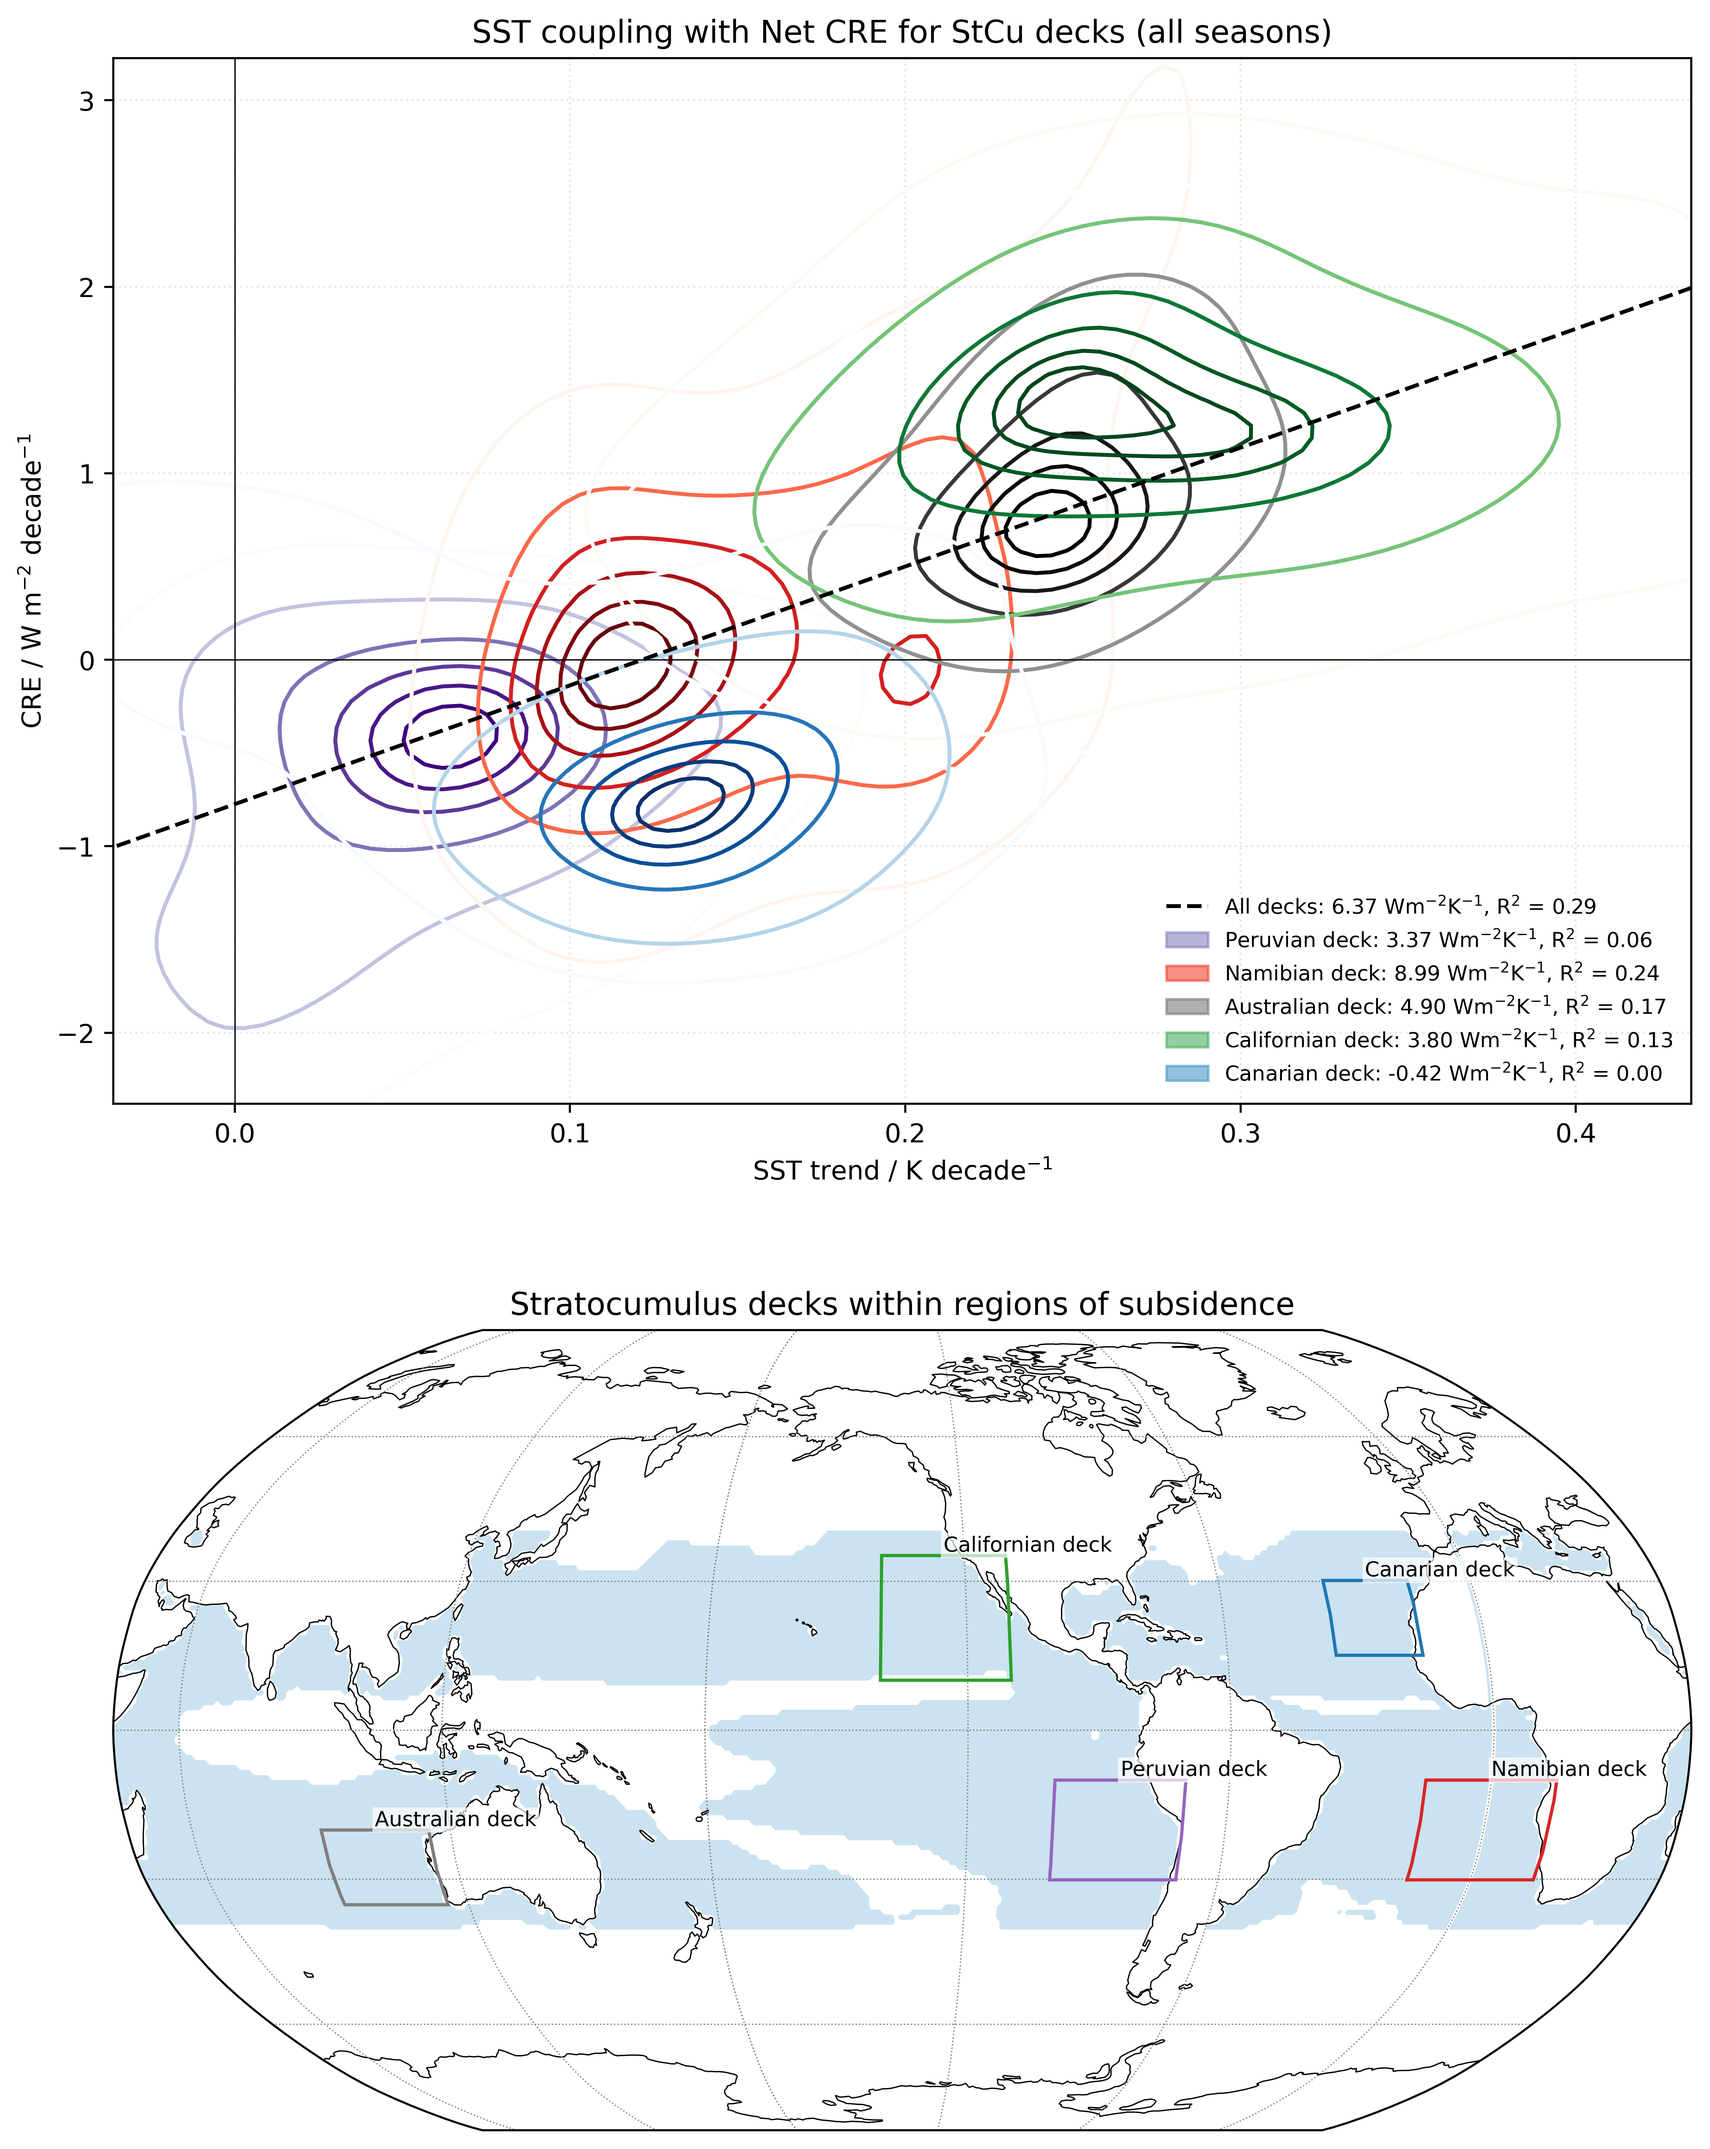
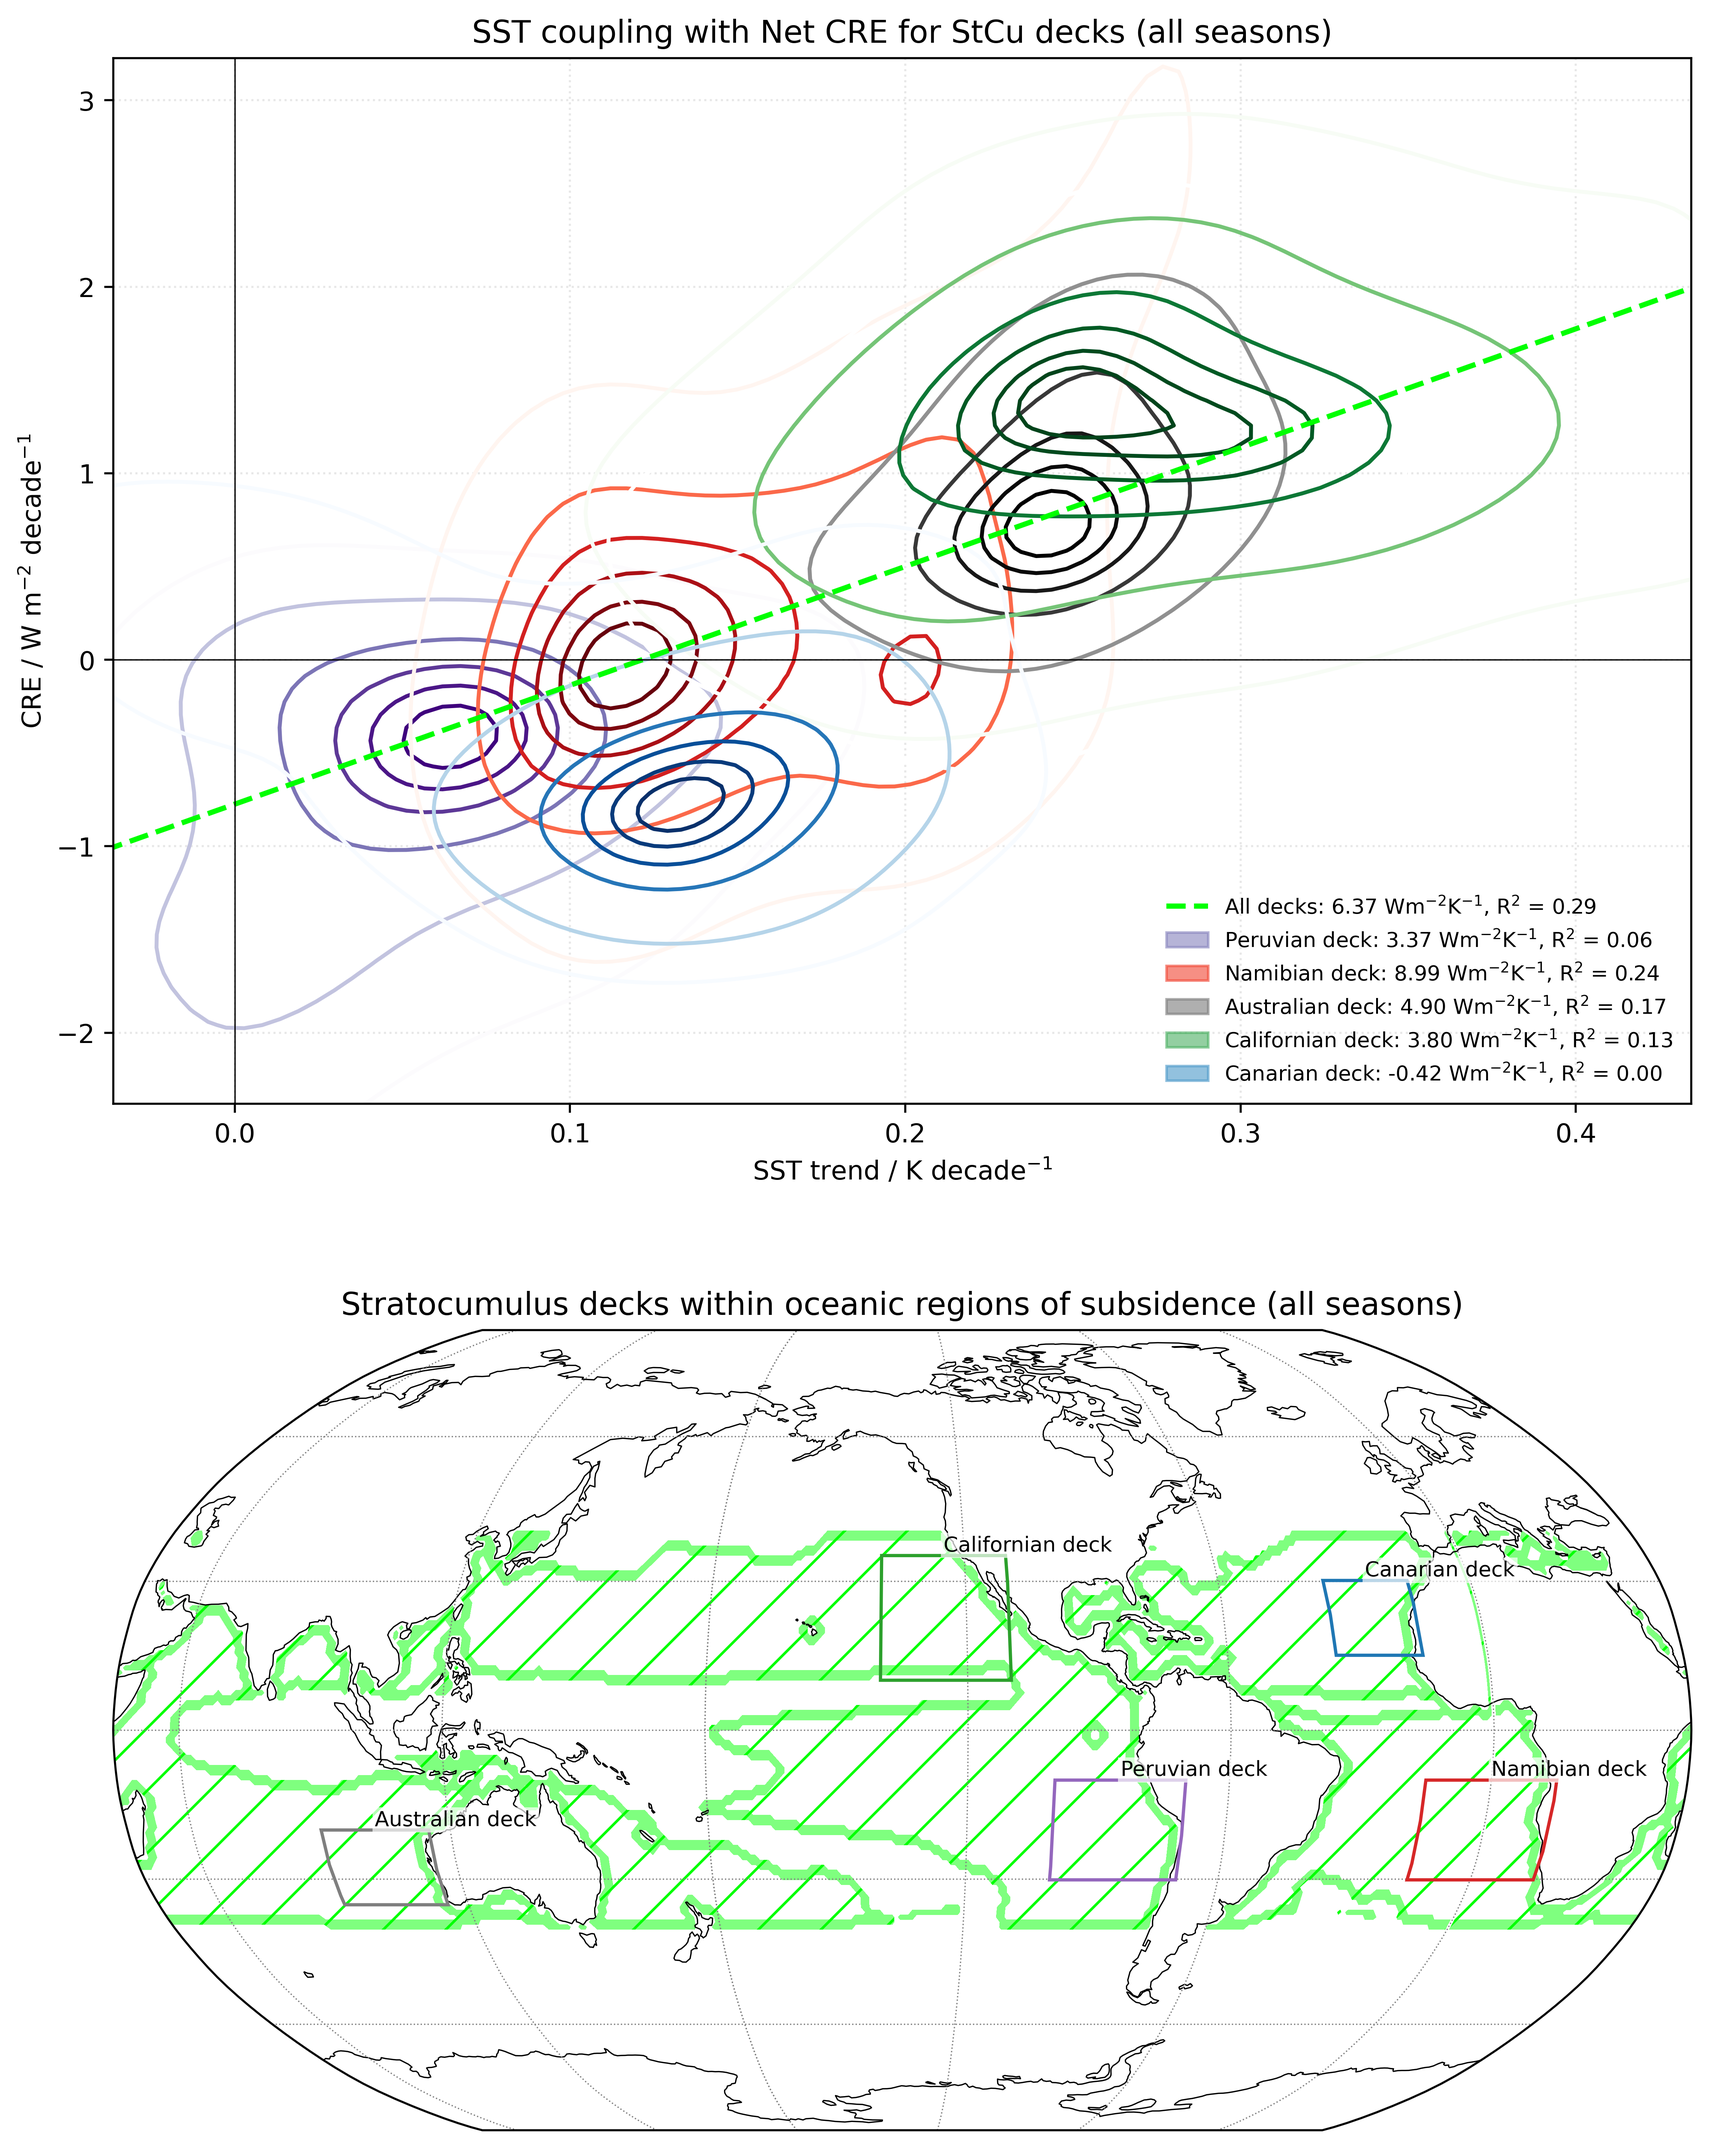
stcu - color region consistently

diff --git a/make_figs/masks.py b/make_figs/masks.py
@@ -4,12 +4,10 @@ import matplotlib.pyplot as plt
 import cartopy.crs as ccrs
 
 import matplotlib.patches as mpatches
-from matplotlib.patches import PathPatch
-from matplotlib.collections import PatchCollection
 
 from utils import global_mean
 from utils.plotting import plot_colormesh, plot_coasts_grid, plot_colorbar
-from utils.plotting import colors, hatches
+from utils.plotting import colors, hatches, edge_band
 
 
 net = xr.open_mfdataset(["pp/ceres_trends.nc"]).net.load()
@@ -17,22 +15,6 @@ masks = xr.open_dataset("pp/regime_masks.nc").load()
 
 regime_names = list(masks.data_vars)[:-1]
 letter = np.array(["a","b","c","d"])
-
-def edge_band(mask, n=2):
-    """
-    n = thickness in grid cells
-    """
-    interior = mask.astype(bool)
-
-    for _ in range(n):
-        north = interior.shift(lat=-1, fill_value=False)
-        south = interior.shift(lat=1, fill_value=False)
-        east  = interior.roll(lon=-1, roll_coords=False)
-        west  = interior.roll(lon=1,  roll_coords=False)
-
-        interior = interior & north & south & east & west
-
-    return mask.astype(bool) & (~interior)
 
 ######
 
@@ -74,63 +56,6 @@ for i,s in enumerate(["MAM","JJA","SON","DJF"]):
     
 plot_colorbar(fig, cf, "EEI Trend / W m$^{-2}$ dec$^{-1}$", [0.25, -0.05, 0.5, 0.02])
 plt.savefig("figures/eei_seasons_masks.png", dpi=300, facecolor="w", bbox_inches="tight")
-
-#####
-
-# fig,axes = plt.subplots(2, 2, figsize=(9.5,6), subplot_kw={"projection":ccrs.Robinson(central_longitude=-135)}, constrained_layout=True)
-# letter = np.array(["a","b","c","d"])
-
-# for i,s in enumerate(["MAM","JJA","SON","DJF"]):
-#     ax = axes.flatten()[i]
-#     da = net.sel(season=s)
-#     trend_gm = global_mean(da).values
-    
-#     cf = plot_colormesh(ax, da)
-#     plot_coasts_grid(ax)
-#     ax.set_title(letter[i]+") "+s+f" = {trend_gm:0.2f}", position=(0.35, 1.0))
-    
-# plot_colorbar(fig, cf, "EEI Trend / W m$^{-2}$ dec$^{-1}$", [0.25, -0.05, 0.5, 0.02])
-# plt.savefig("figures/eei_seasons.png", dpi=300, facecolor="w", bbox_inches="tight")
-
-# #####
-
-# fig,axes = plt.subplots(2, 2, figsize=(9.5,6), subplot_kw={"projection":ccrs.Robinson(central_longitude=-135)}, constrained_layout=True)
-
-# for i,s in enumerate(masks.season.values):
-#     ax = axes.flatten()[i]
-#     for name in regime_names:
-#         data = masks[name].sel(season=s).astype(int)
-#         band = edge_band(data, n=2)
-
-#         # 1. Colored boundary band (replaces contour)
-#         ax.contourf(
-#             data.lon, data.lat, band,
-#             levels=[0.5, 1],
-#             colors=[colors[name]],
-#             transform=ccrs.PlateCarree(),
-#         )
-
-#         # 2. Hatched regions with colored hatches
-#         cf = ax.contourf(
-#             data.lon, data.lat, data,
-#             levels=[0.5, 1],
-#             colors='none',
-#             hatches=[hatches[name]],
-#             transform=ccrs.PlateCarree(),
-#         )
-#         # trick to color the hatches
-#         for collection in ax.collections[-1:]:  # last contourf
-#             collection.set_edgecolor(colors[name])
-#             collection.set_linewidth(0.0)  # remove polygon edges
-
-#     ax.coastlines()
-#     ax.gridlines(draw_labels=False, linewidth=0.5, color='gray', linestyle=':')
-#     ax.set_title(letter[i]+") "+s, position=(0.35, 1.0))
-
-# plt.savefig("figures/seasons_masks.png", dpi=300, facecolor="w", bbox_inches="tight")
-
-
-#######
 
 plt.figure(figsize=(6,4))
 bottom = np.zeros(len(masks.season))

diff --git a/make_figs/stcu.py b/make_figs/stcu.py
@@ -6,7 +6,7 @@ import seaborn as sns
 from scipy.stats import pearsonr
 import xarray as xr
 
-from utils.plotting import central_lon, plot_coasts_grid
+from utils.plotting import central_lon, plot_coasts_grid, colors, hatches, edge_band
 
 ceres = xr.open_mfdataset(["pp/ceres_trends.nc"])
 subsidence = xr.open_dataset("pp/regime_masks.nc").subsidence_ocean
@@ -102,7 +102,7 @@ slope, intercept, r = regression(sst_all_boxes, cre_all_boxes)
 x_reg = np.linspace(min(sst_all_boxes), max(sst_all_boxes), 100)
 ax.plot(
     x_reg, slope * x_reg + intercept,
-    color="black", linestyle="--", linewidth=1.5,
+    color=colors['subsidence_ocean'], linestyle="--", linewidth=2,
     label=f"All decks: {slope:.2f} Wm$^{{-2}}$K$^{{-1}}$, R$^2$ = {r**2:.2f}"
 )
 
@@ -128,15 +128,28 @@ ax.grid(alpha=0.3, linestyle=":")
 mask_union = subsidence.any(dim="season")
 lon_vals = mask_union.lon.values
 lat_vals = mask_union.lat.values
-mask_data = mask_union.values
 
+# 1. Colored boundary band
 map_ax.contourf(
-    lon_vals, lat_vals, mask_data,
-    levels=[0.5, 1.5],
-    colors=["#6baed6"],
-    alpha=0.35,
+    lon_vals, lat_vals, edge_band(mask_union).values,
+    levels=[0.5, 1],
+    colors=[colors['subsidence_ocean']],
+    alpha=0.5,
     transform=ccrs.PlateCarree(),
 )
+
+# 2. Hatched regions with colored hatches
+map_ax.contourf(
+    lon_vals, lat_vals, mask_union.values,
+    levels=[0.5, 1],
+    colors='none',
+    hatches=[hatches['subsidence_ocean']],
+    transform=ccrs.PlateCarree(),
+)
+# trick to color the hatches
+map_ax.collections[-1:][0].set_edgecolor(colors['subsidence_ocean'])
+map_ax.collections[-1:][0].set_linewidth(0.0)  # remove polygon edges
+
 plot_coasts_grid(map_ax)
 
 # draw rectangles and labels around stcu regions
@@ -160,6 +173,6 @@ for name, lat_min, lat_max, lon_min, lon_max, color, _ in stcu_deck_boxes:
     )
 
 map_ax.set_global()
-map_ax.set_title("Stratocumulus decks within regions of subsidence")
+map_ax.set_title("Stratocumulus decks within oceanic regions of subsidence (all seasons)")
 fig.savefig(f"figures/figure_stcu_ssts.png", dpi=500, bbox_inches='tight')
 print(f"plotted sst regressed on net cre for {len(sst_all_boxes)} gridpoints")

diff --git a/utils/plotting.py b/utils/plotting.py
@@ -45,3 +45,19 @@ def plot_coasts_grid(ax):
 def plot_colorbar(fig, colormap, title, position, lim=color_range_for_trends):
     cbar_ax = fig.add_axes(position)
     return fig.colorbar(colormap, cax=cbar_ax, orientation='horizontal', label=title, extend="both", ticks = np.linspace(-lim,lim,5))
+
+def edge_band(mask, n=2):
+    """
+    n = thickness in grid cells
+    """
+    interior = mask.astype(bool)
+
+    for _ in range(n):
+        north = interior.shift(lat=-1, fill_value=False)
+        south = interior.shift(lat=1, fill_value=False)
+        east  = interior.roll(lon=-1, roll_coords=False)
+        west  = interior.roll(lon=1,  roll_coords=False)
+
+        interior = interior & north & south & east & west
+
+    return mask.astype(bool) & (~interior)
